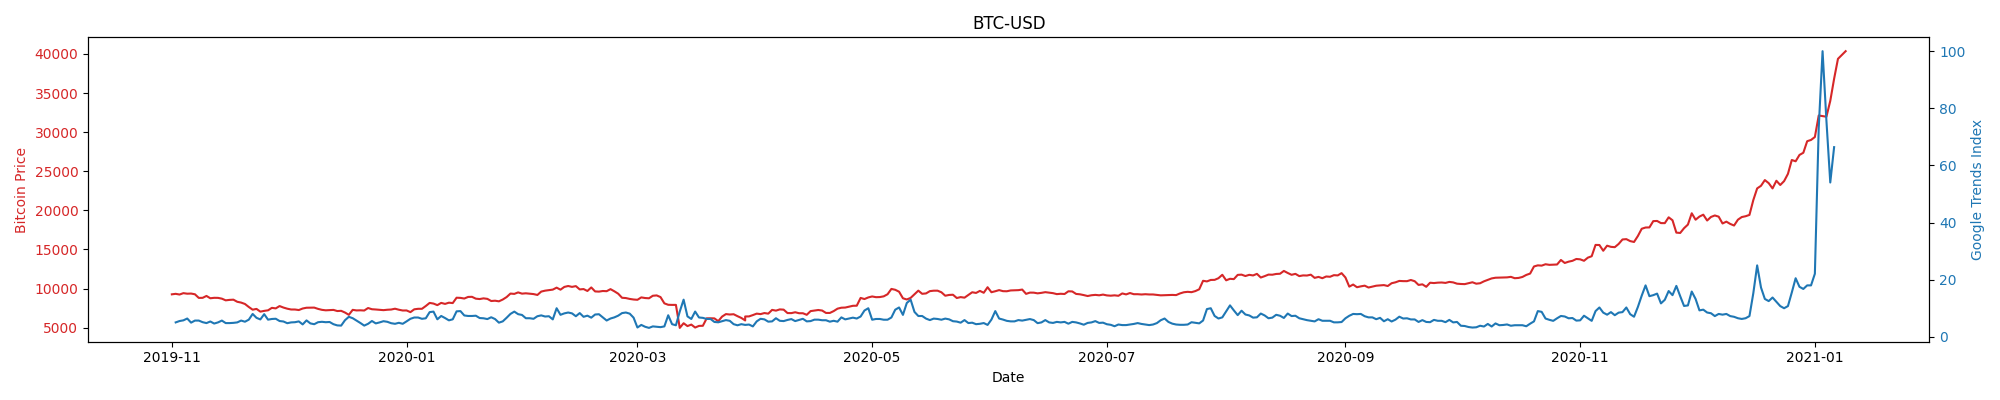
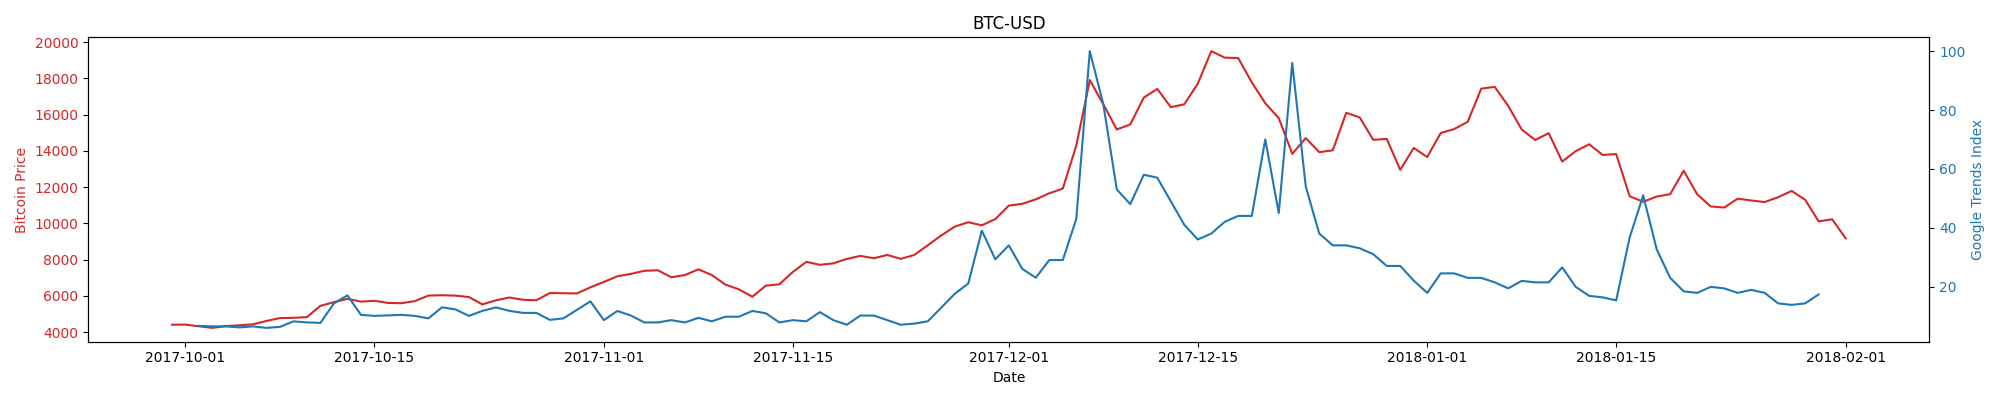
Updated README.md and BTC-USD_1 to show more meaningful chart

diff --git a/README.md b/README.md
@@ -1,3 +1,6 @@
 # Search Trend Visualization
-![](/gallary/BTC-USD.png)
+![](/gallary/BTC-USD_2.png)
+Current search index verses price
+![](/gallary/BTC-USD_1.png)
+Search index verses price for Oct 2017 to January 2018
 This project pulls search index of Bitcoin and the historical price of Bitcoin to USD. Then it graphs the result using matplotlib, showing the correlation between search interest and Bitcoin price.
